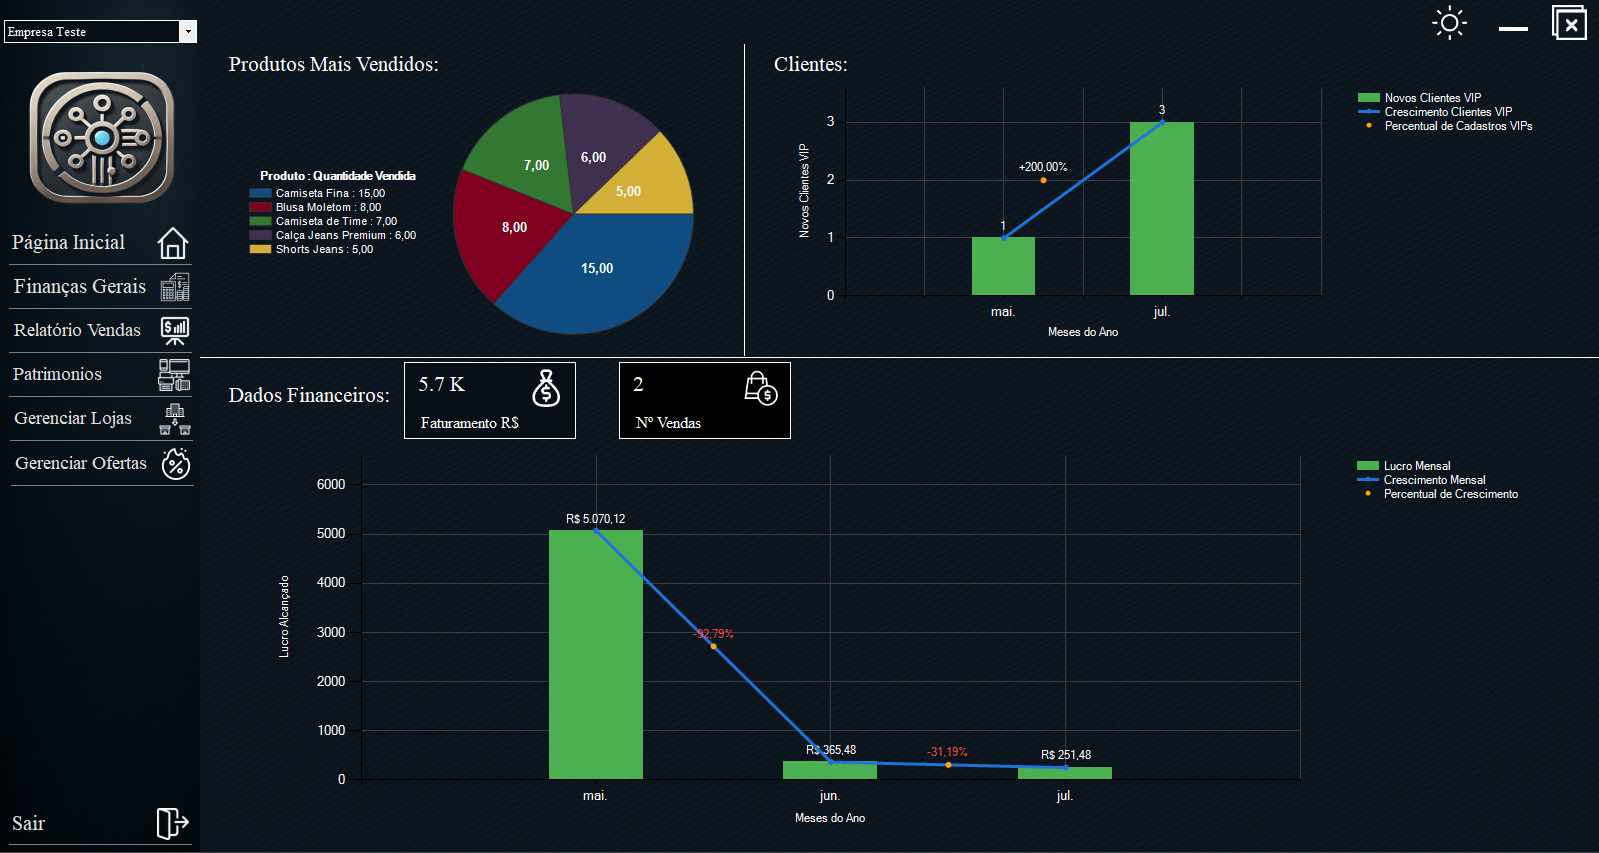
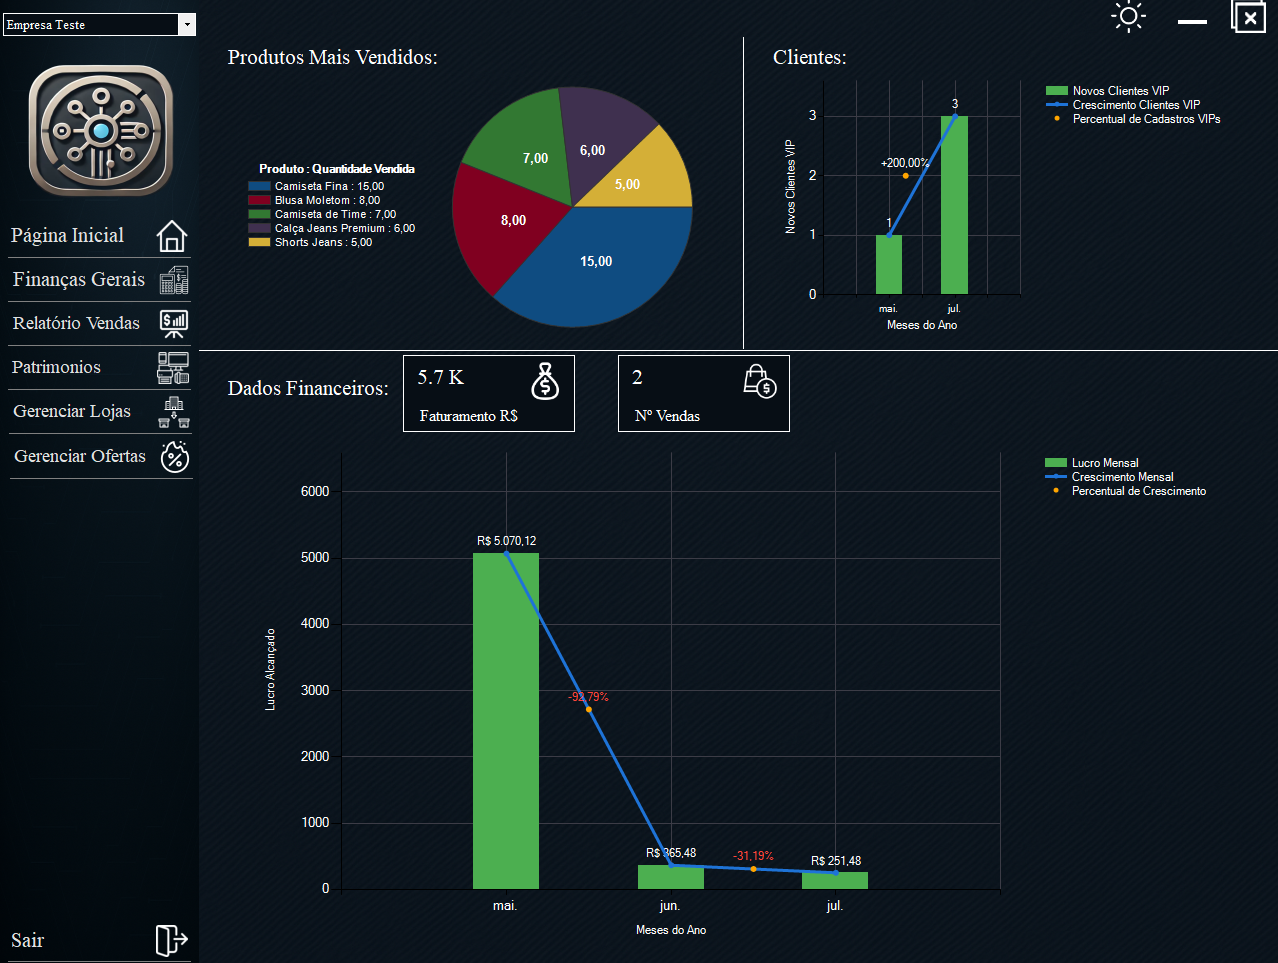
vamos melhorar os planos quero 3 planos com essas diferenças: 💼 Planos

diff --git a/src/components/home/Pricing.tsx b/src/components/home/Pricing.tsx
@@ -1,46 +1,75 @@
 import React from 'react';
-import { Check, Star } from 'lucide-react';
+import { Check, Star, X, Briefcase, Building, Store } from 'lucide-react';
 
 const Pricing = () => {
   const plans = [
     {
-      name: "Básico",
+      name: "Essencial",
       price: "80",
-      originalPrice: "960",
-      yearlyPrice: "864",
-      description: "Perfeito para pequenos negócios",
-      popular: false,
+      description: "Pequenos comércios",
+      icon: Store,
       features: [
-        "Até 1.000 produtos",
-        "1 usuário",
-        "Controle de estoque básico",
-        "PDV simples",
-        "Impressão de etiquetas",
-        "Relatórios básicos",
-        "Suporte por e-mail"
-      ]
+        "Até 2 usuários simultâneos",
+        "Controle de Crédito Simples",
+        "Relatórios Básicos (vendas, caixa)",
+        "Acesso a tutoriais",
+        "Controle de Acesso (❌)",
+        "Gestão de Filiais (❌)",
+        "Marca personalizada (❌)",
+        "Integração E-commerce (❌)",
+      ],
+      popular: false
     },
     {
       name: "Profissional",
       price: "120",
-      originalPrice: "1440",
-      yearlyPrice: "1296",
-      description: "Para empresas em crescimento",
-      popular: true,
+      description: "Lojas de médio porte",
+      icon: Briefcase,
       features: [
-        "Produtos ilimitados",
-        "Até 5 usuários",
-        "Controle de estoque avançado",
-        "PDV completo",
-        "Impressão de etiquetas personalizadas",
-        "Relatórios avançados e dashboard",
-        "Integração com e-commerce",
-        "Backup automático",
-        "Suporte via WhatsApp",
-        "Treinamento incluído"
-      ]
+        "Até 5 usuários simultâneos",
+        "Controle de Crédito com limite e histórico",
+        "Relatórios Avançados",
+        "Controle de Acesso com permissões básicas",
+        "Treinamento incluso",
+        "Integração com E-commerce",
+        "Gestão de Filiais (❌)",
+        "Marca personalizada (❌)",
+      ],
+      popular: true
+    },
+    {
+      name: "Empresarial",
+      price: "190",
+      description: "Redes com filiais",
+      icon: Building,
+      features: [
+        "Usuários ilimitados",
+        "Controle de Crédito avançado por filial",
+        "Relatórios Estratégicos e personalizados",
+        "Controle de Acesso avançado + log de ações",
+        "Gerenciamento MultiLojas",
+        "Marca personalizada (opcional)",
+        "Integração com E-commerce",
+        "Treinamento incluso",
+      ],
+      popular: false
     }
   ];
+
+  const planSummaries = [
+    {
+      title: "🟢 Essencial (R$ 80/mês)",
+      description: "Para comércios que operam com equipe reduzida e precisam de um sistema ágil com controle básico de clientes, crédito e financeiro. Ideal para até 2 usuários simultâneos."
+    },
+    {
+      title: "🔵 Profissional (R$ 120/mês)",
+      description: "Voltado para lojas com maior fluxo de operação e equipe, com relatórios mais completos e maior controle de permissões. Suporta até 5 usuários simultâneos."
+    },
+    {
+      title: "🟣 Empresarial (R$ 190/mês)",
+      description: "Solução robusta para redes com múltiplas unidades, controle por setores, número ilimitado de usuários e recursos em expansão voltados à gestão avançada."
+    }
+  ]
 
   return (
     <section id="pricing" className="py-20 bg-white dark:bg-gray-900">
@@ -53,7 +82,6 @@ const Pricing = () => {
             Escolha o plano ideal para o seu negócio e comece hoje mesmo
           </p>
           
-          {/* Annual Discount Banner */}
           <div className="bg-green-50 dark:bg-green-900/50 border border-green-200 dark:border-green-800 rounded-lg p-4 max-w-md mx-auto">
             <p className="text-green-800 dark:text-green-300 font-medium">
               💰 Economize 10% pagando anualmente
@@ -61,62 +89,76 @@ const Pricing = () => {
           </div>
         </div>
 
-        <div className="grid md:grid-cols-2 gap-8 max-w-4xl mx-auto">
-          {plans.map((plan, index) => (
-            <div 
-              key={index}
-              className={`bg-white dark:bg-gray-800 rounded-2xl shadow-xl border-2 p-8 relative ${
-                plan.popular ? 'border-blue-500 transform scale-105' : 'border-gray-200 dark:border-gray-700'
-              }`}
-            >
-              {plan.popular && (
-                <div className="absolute -top-4 left-1/2 transform -translate-x-1/2">
-                  <div className="bg-blue-500 text-white px-4 py-2 rounded-full text-sm font-semibold flex items-center space-x-1">
-                    <Star className="w-4 h-4 fill-current" />
-                    <span>Mais Popular</span>
-                  </div>
-                </div>
-              )}
-
-              <div className="text-center mb-8">
-                <h3 className="text-2xl font-bold text-gray-900 dark:text-white mb-2">{plan.name}</h3>
-                <p className="text-gray-600 dark:text-gray-300 mb-4">{plan.description}</p>
-                
-                <div className="space-y-2">
-                  <div className="flex items-baseline justify-center">
-                    <span className="text-5xl font-bold text-gray-900 dark:text-white">R$ {plan.price}</span>
-                    <span className="text-gray-500 dark:text-gray-400 ml-2">/mês</span>
-                  </div>
-                  
-                  <div className="text-sm text-gray-500 dark:text-gray-400">
-                    <span className="line-through">R$ {plan.originalPrice}/ano</span>
-                    <span className="text-green-600 dark:text-green-400 font-semibold ml-2">
-                      R$ {plan.yearlyPrice}/ano
-                    </span>
-                  </div>
-                </div>
-              </div>
-
-              <div className="space-y-4 mb-8">
-                {plan.features.map((feature, featureIndex) => (
-                  <div key={featureIndex} className="flex items-start space-x-3">
-                    <Check className="w-5 h-5 text-green-500 flex-shrink-0 mt-0.5" />
-                    <span className="text-gray-700 dark:text-gray-300">{feature}</span>
-                  </div>
-                ))}
-              </div>
-
-              <button 
-                className={`w-full py-4 px-6 rounded-lg font-semibold transition-all transform hover:scale-105 ${
-                  plan.popular
-                    ? 'bg-green-600 hover:bg-green-700 text-white shadow-lg hover:shadow-xl'
-                    : 'bg-gray-100 hover:bg-gray-200 text-gray-900 dark:bg-gray-700 dark:hover:bg-gray-600 dark:text-white border-2 border-gray-200 dark:border-gray-600 hover:border-gray-300 dark:hover:border-gray-500'
+        <div className="grid md:grid-cols-1 lg:grid-cols-3 gap-8 items-start">
+          {plans.map((plan, index) => {
+            const Icon = plan.icon;
+            return (
+              <div 
+                key={index}
+                className={`bg-white dark:bg-gray-800 rounded-2xl shadow-xl border-2 p-8 relative flex flex-col h-full ${
+                  plan.popular ? 'border-blue-500 transform lg:scale-105' : 'border-gray-200 dark:border-gray-700'
                 }`}
               >
-                {plan.popular ? 'Iniciar Teste Grátis' : 'Escolher Plano'}
-              </button>
+                {plan.popular && (
+                  <div className="absolute -top-4 left-1/2 transform -translate-x-1/2">
+                    <div className="bg-blue-500 text-white px-4 py-2 rounded-full text-sm font-semibold flex items-center space-x-1">
+                      <Star className="w-4 h-4 fill-current" />
+                      <span>Mais Popular</span>
+                    </div>
+                  </div>
+                )}
+
+                <div className="text-center mb-8">
+                  <div className="w-16 h-16 mx-auto bg-gray-100 dark:bg-gray-700 rounded-full flex items-center justify-center mb-4">
+                     <Icon className="w-8 h-8 text-blue-600 dark:text-blue-400" />
+                  </div>
+                  <h3 className="text-2xl font-bold text-gray-900 dark:text-white mb-2">{plan.name}</h3>
+                  <p className="text-gray-600 dark:text-gray-300 mb-4">{plan.description}</p>
+                  
+                  <div className="space-y-2">
+                    <div className="flex items-baseline justify-center">
+                      <span className="text-5xl font-bold text-gray-900 dark:text-white">R$ {plan.price}</span>
+                      <span className="text-gray-500 dark:text-gray-400 ml-2">/mês</span>
+                    </div>
+                  </div>
+                </div>
+
+                <div className="space-y-4 mb-8 flex-grow">
+                  {plan.features.map((feature, featureIndex) => (
+                    <div key={featureIndex} className="flex items-start space-x-3">
+                      {feature.includes('(❌)') ? 
+                        <X className="w-5 h-5 text-red-500 flex-shrink-0 mt-0.5" /> : 
+                        <Check className="w-5 h-5 text-green-500 flex-shrink-0 mt-0.5" />}
+                      <span className="text-gray-700 dark:text-gray-300">{feature.replace(' (❌)','')}</span>
+                    </div>
+                  ))}
+                </div>
+
+                <button 
+                  className={`w-full mt-auto py-4 px-6 rounded-lg font-semibold transition-all transform hover:scale-105 ${
+                    plan.popular
+                      ? 'bg-green-600 hover:bg-green-700 text-white shadow-lg hover:shadow-xl'
+                      : 'bg-gray-100 hover:bg-gray-200 text-gray-900 dark:bg-gray-700 dark:hover:bg-gray-600 dark:text-white border-2 border-gray-200 dark:border-gray-600 hover:border-gray-300 dark:hover:border-gray-500'
+                  }`}
+                >
+                  {plan.popular ? 'Iniciar Teste Grátis' : 'Escolher Plano'}
+                </button>
+              </div>
+            )
+          })}
+        </div>
+
+        {/* Plan Summaries */}
+        <div className="mt-20">
+            <h3 className="text-2xl lg:text-3xl font-bold text-gray-900 dark:text-white text-center mb-10">🛒 Resumo dos Planos</h3>
+            <div className="grid md:grid-cols-1 lg:grid-cols-3 gap-8">
+              {planSummaries.map((summary, index) => (
+                <div key={index} className="bg-gray-50 dark:bg-gray-800 p-6 rounded-xl border border-gray-200 dark:border-gray-700">
+                    <h4 className="text-lg font-semibold text-gray-900 dark:text-white mb-3">{summary.title}</h4>
+                    <p className="text-gray-600 dark:text-gray-300 leading-relaxed">{summary.description}</p>
+                </div>
+              ))}
             </div>
-          ))}
         </div>
 
         {/* Additional Info */}

diff --git a/src/components/home/Hero.tsx b/src/components/home/Hero.tsx
@@ -1,7 +1,7 @@
 import React from 'react';
 import { Play, CheckCircle, Calendar } from 'lucide-react';
 import Image from 'next/image';
-import SystemScreenImg from '@/images/telasistema.png';
+import SystemScreenImg from '@/images/telaSistema.png';
 
 const Hero = () => {
   return (
@@ -59,11 +59,11 @@ const Hero = () => {
 
           {/* Dashboard Preview */}
           <div className="relative">
-            <div className="bg-white dark:bg-gray-800 rounded-2xl shadow-2xl p-6 transform rotate-1 hover:rotate-0 transition-transform duration-300">
+            <div className="bg-white dark:bg-gray-800 rounded-2xl shadow-2xl p-4 transform rotate-1 hover:rotate-0 transition-transform duration-300">
             <Image 
               src={SystemScreenImg}
               alt="Dashboard do NexusPro" 
-              className="rounded-lg shadow-lg"
+              className="rounded-lg shadow-lg w-full"
               width={600}
               height={400}
             />
